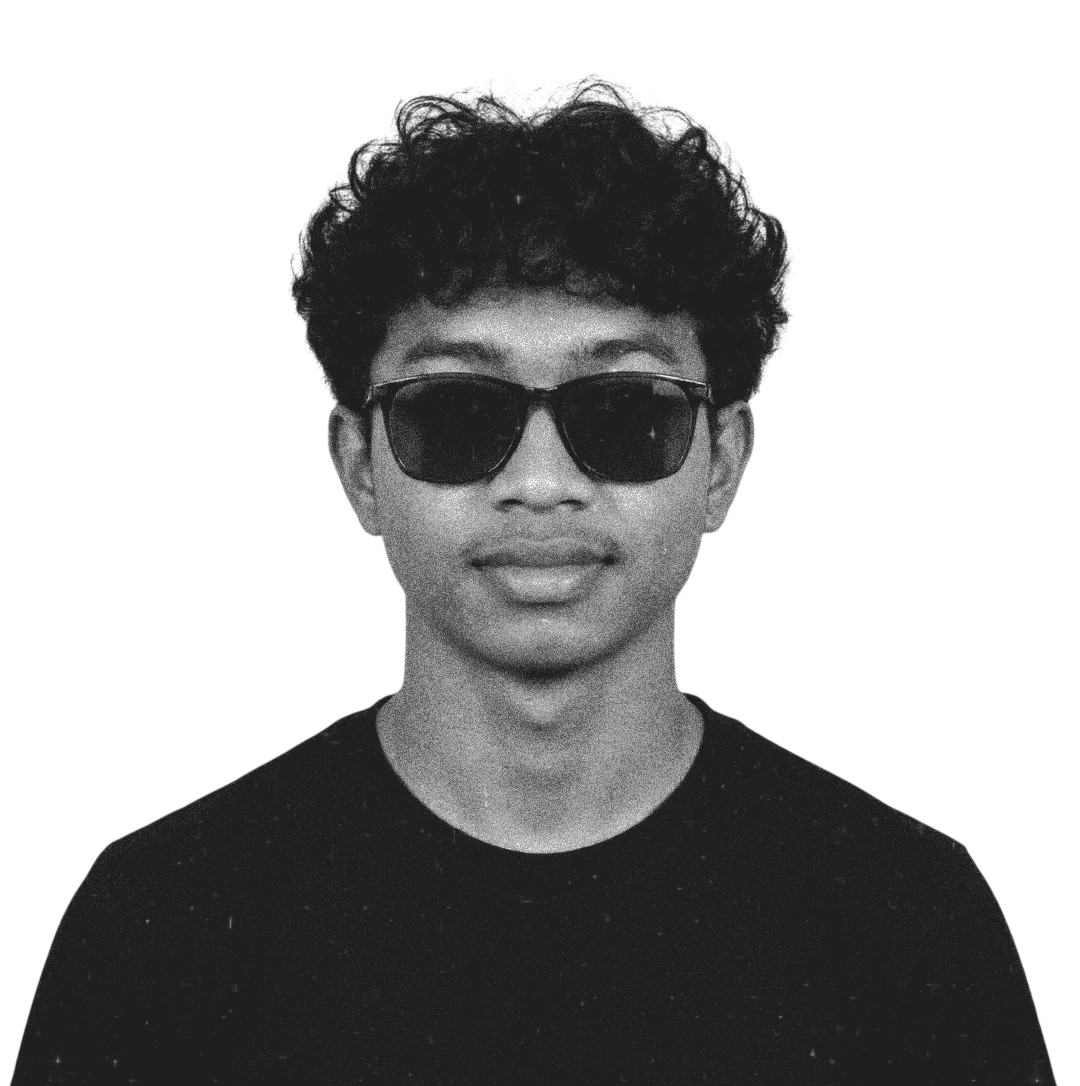
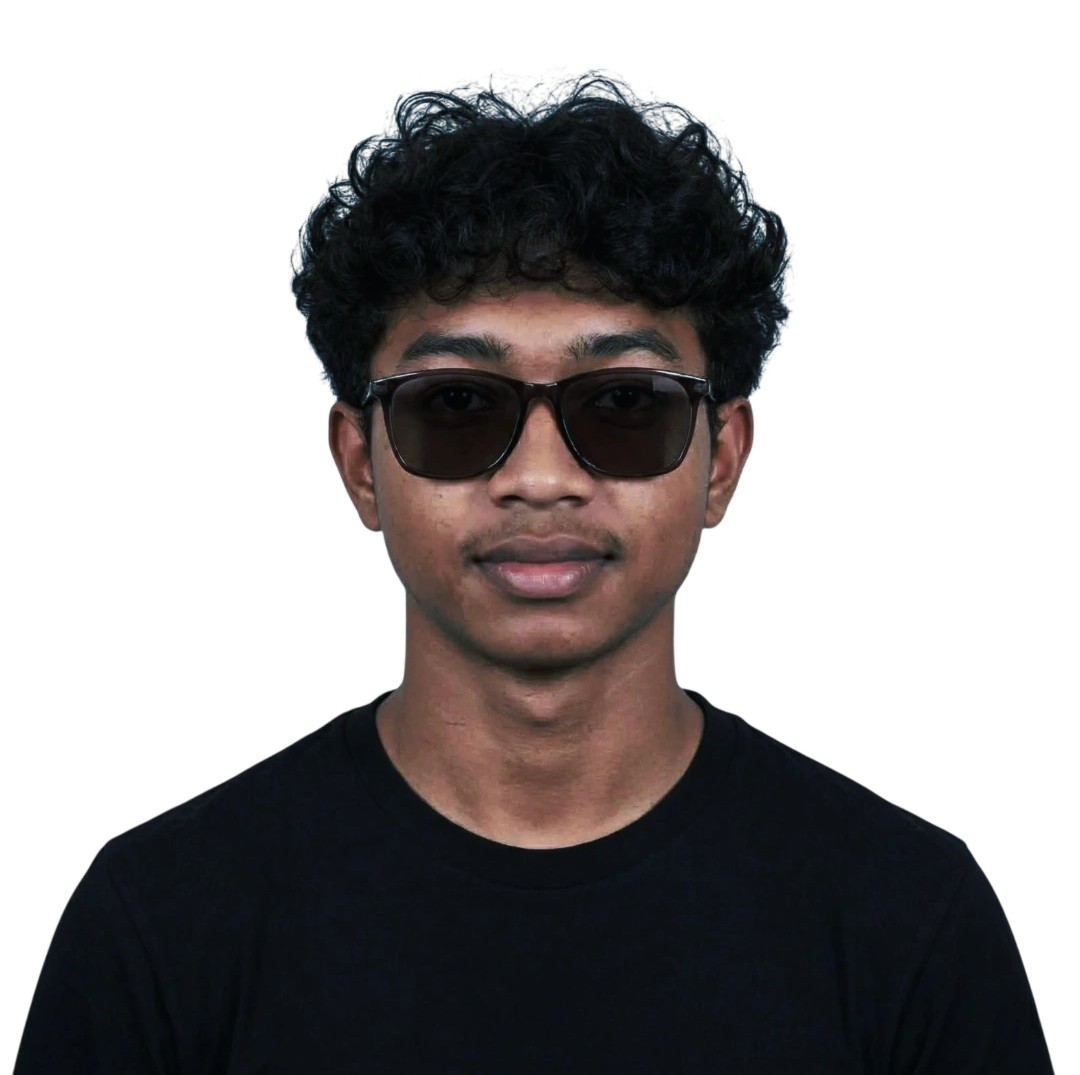
upload de photo

diff --git a/css/style.css b/css/style.css
@@ -422,11 +422,11 @@ body {
 }
 
 .profile-avatar {
-  width: 320px;
-  height: 380px;
-  object-fit: cover;
-  border: 1px solid var(--border-color);
-  box-shadow: 0 0 30px rgba(0,0,0,0.8);
+  max-width: 400px;
+  height: auto;
+  object-fit: contain;
+  border: none;
+  box-shadow: none;
 }
 
 /* Services */
@@ -1192,8 +1192,8 @@ body {
 
   .placeholder-avatar,
   .profile-avatar {
-    width: 200px;
-    height: 250px;
+    max-width: 250px;
+    height: auto;
     font-size: 1.5rem;
   }
   
